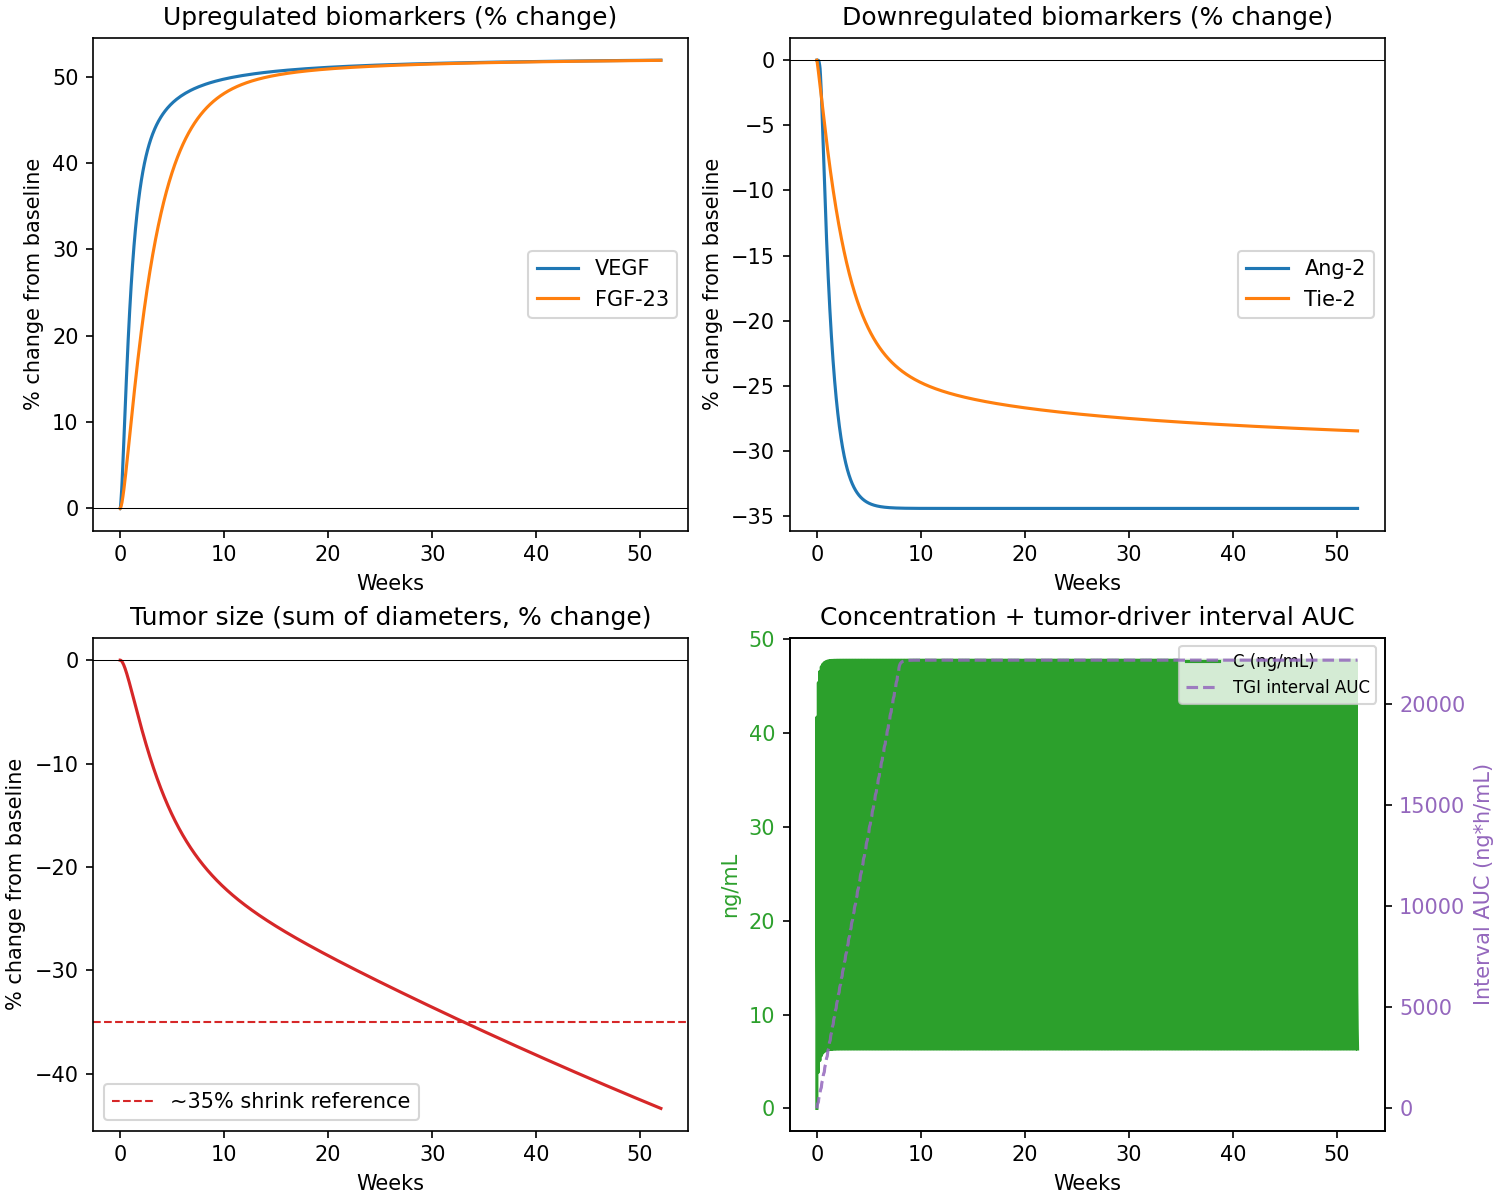
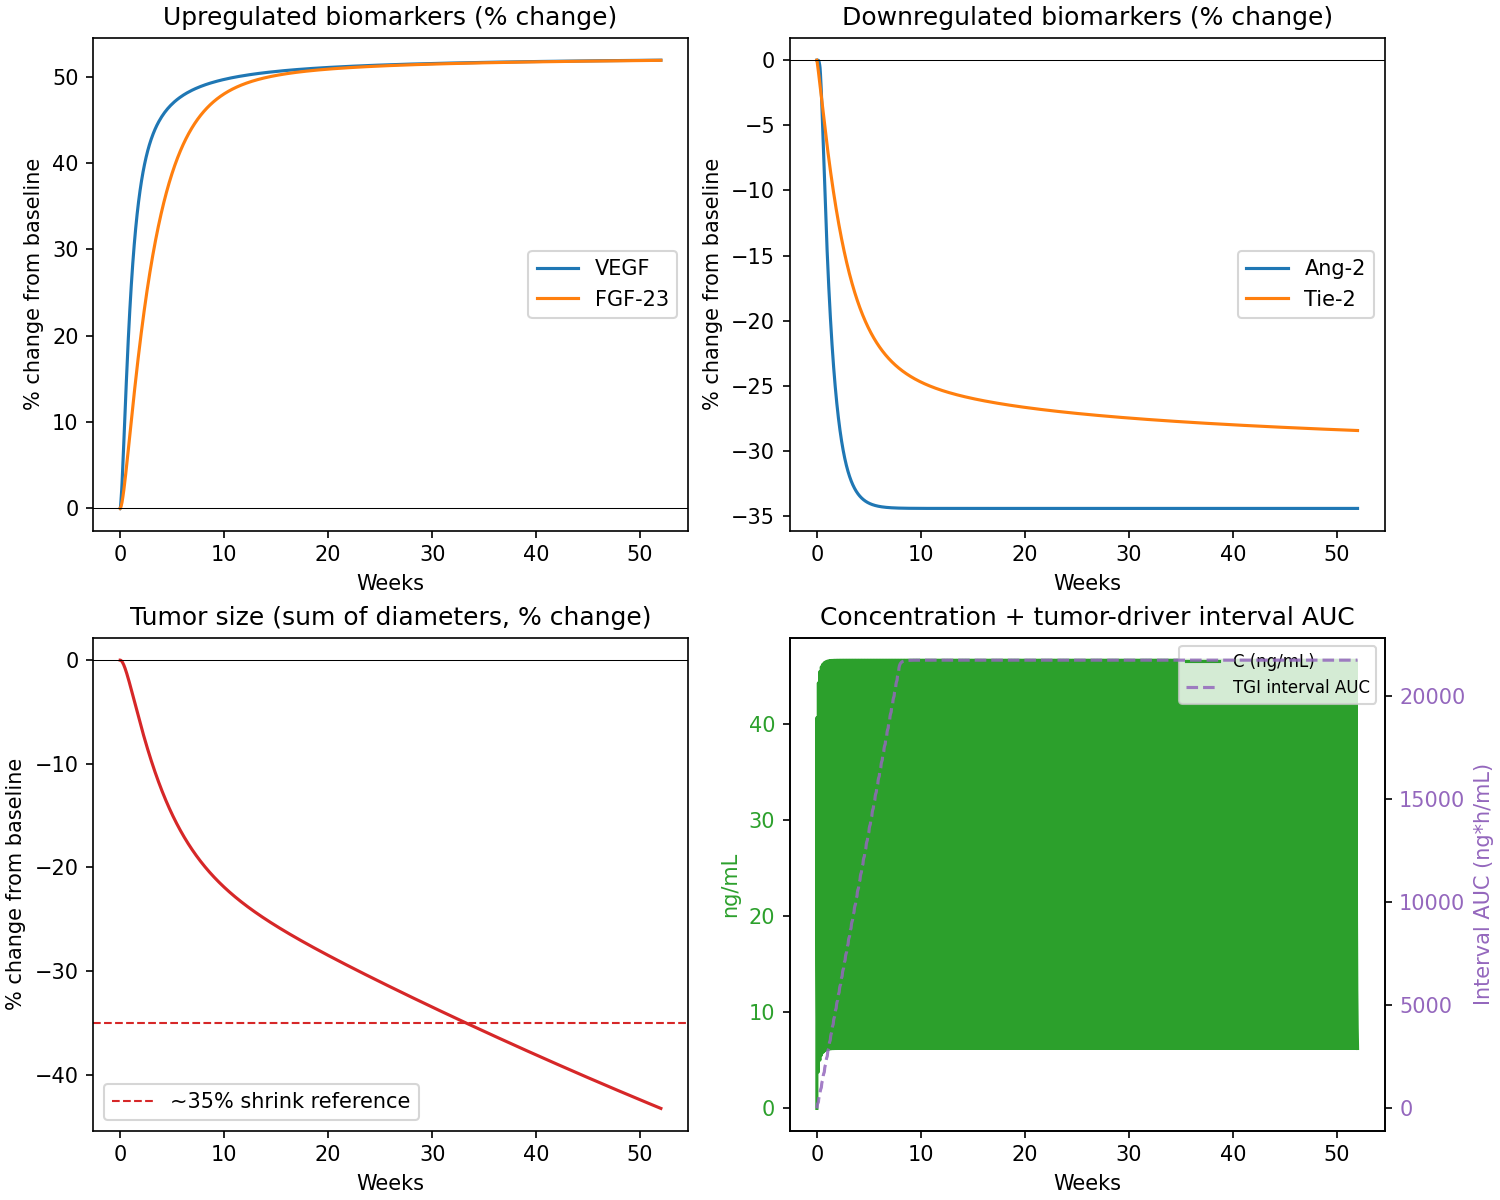
Lenvatinib Majid2024: default primary patient 75.1 kg / 59.5 mm (Figure 4); drop redundant Section B

diff --git a/test_cases/RCC/lenvatinib/Majid2024/lenvatinib_rcc_pkpd.py b/test_cases/RCC/lenvatinib/Majid2024/lenvatinib_rcc_pkpd.py
@@ -499,7 +499,12 @@ def main() -> None:
     p = argparse.ArgumentParser(description="Lenvatinib RCC PK/PD/TGI (Majid et al. 2024)")
     p.add_argument("--weeks", type=float, default=52.0)
     p.add_argument("--dose-mg", type=float, default=24.0)
-    p.add_argument("--bw-kg", type=float, default=73.2)
+    p.add_argument(
+        "--bw-kg",
+        type=float,
+        default=75.1,
+        help="Body weight (kg); default 75.1 = Figure 4 simulation patient (Majid et al.)",
+    )
     p.add_argument("--no-rcc-cl", action="store_true")
     p.add_argument(
         "--dt-h",
@@ -507,7 +512,12 @@ def main() -> None:
         default=0.1,
         help="Euler step (h); 0.1 recommended (Majid-style stiff biomarker γ); 0.5 often <0.5%% drift",
     )
-    p.add_argument("--y0-tumor-mm", type=float, default=70.2, help="Baseline SLD (mm); 70.2 for >35%% shrink caption")
+    p.add_argument(
+        "--y0-tumor-mm",
+        type=float,
+        default=59.5,
+        help="Baseline SLD (mm); default 59.5 = Figure 4 simulation patient (studies 303+211 median)",
+    )
     p.add_argument(
         "--tumor-auc-window-weeks",
         type=float,
@@ -551,31 +561,22 @@ def main() -> None:
     fig_path = results / "figures" / "figure4_style_pk_pd_tgi.png"
     plot_figure4_style(df, fig_path)
 
-    # Fig. 4 biomarker timing: medians from studies 303+211 (Majid et al. caption)
-    df_fig4 = run_scenario(bw_kg=75.1, y0_tumor_mm=59.5, **common_kw)
-    fig4 = paper_figure4_timing_metrics(df_fig4)
-
     summ = validation_summary(df)
+    fig4 = paper_figure4_timing_metrics(df)
     lines = [
         "Majid et al. 2024 CPT PSP 2024;13(6):954-969 — validation vs Figure 4 narrative",
         "",
-        "A) Primary exported run (CLI: BW, baseline tumor, interval window)",
-        f"    BW={args.bw_kg} kg, baseline tumor={args.y0_tumor_mm} mm, TGI AUC window={args.tumor_auc_window_weeks} wk",
+        "A) Primary exported run (Figure 4 reference patient: default BW 75.1 kg, baseline tumor 59.5 mm)",
+        f"    CLI: BW={args.bw_kg} kg, baseline tumor={args.y0_tumor_mm} mm, TGI AUC window={args.tumor_auc_window_weeks} wk",
         f"    VEGF % change @ 2 wk: {summ['vegf_pct_change_2w']:.2f}%",
         f"    FGF-23 % change @ 8 wk: {summ['fgf23_pct_change_8w']:.2f}%",
         f"    Ang-2 % change @ 4 wk: {summ['ang2_pct_change_4w']:.2f}%",
         f"    Tie-2 % change @ 8 wk: {summ['tie2_pct_change_8w']:.2f}%",
         f"    Tumor % change @ 52 wk: {summ['tumor_pct_change_52w']:.2f}%",
-        "",
-        "B) Figure 4 biomarker profile (BW=75.1 kg, baseline tumor=59.5 mm; same dose/window/dt)",
-        f"    VEGF % @ 2 wk: {fig4['vegf_pct_2w']:.2f}% (paper near-peak ~2 wk)",
-        f"    FGF-23 % @ 8 wk: {fig4['fgf23_pct_8w']:.2f}% (paper near-peak ~8 wk)",
-        f"    Ang-2 % @ 4 wk: {fig4['ang2_pct_4w']:.2f}% (paper near-nadir ~4 wk)",
-        f"    Tie-2 % @ 8 wk: {fig4['tie2_pct_8w']:.2f}% (paper near-nadir ~8 wk)",
-        f"    VEGF week of >=95% of wk-6 response: {fig4['vegf_plateau95_week']:.2f} wk (proxy ~2 wk)",
-        f"    FGF-23 week of >=95% of wk-12 response: {fig4['fgf23_plateau95_week']:.2f} wk (proxy ~8 wk)",
-        f"    Ang-2 week of <=95% depth vs wk-10 nadir: {fig4['ang2_nadir95_week']:.2f} wk (proxy ~4 wk)",
-        f"    Tie-2 week of <=95% depth vs wk-12 nadir: {fig4['tie2_nadir95_week']:.2f} wk (proxy ~8 wk)",
+        f"    VEGF week >=95% of wk-6 response: {fig4['vegf_plateau95_week']:.2f} wk (proxy ~2 wk)",
+        f"    FGF-23 week >=95% of wk-12 response: {fig4['fgf23_plateau95_week']:.2f} wk (proxy ~8 wk)",
+        f"    Ang-2 week <=95% depth vs wk-10 nadir: {fig4['ang2_nadir95_week']:.2f} wk (proxy ~4 wk)",
+        f"    Tie-2 week <=95% depth vs wk-12 nadir: {fig4['tie2_nadir95_week']:.2f} wk (proxy ~8 wk)",
         "",
         "C) >35% shrink caption (73.2 kg, 70.2 mm baseline, 24 mg QD) — dedicated check",
     ]
@@ -596,23 +597,16 @@ def main() -> None:
     lines.extend(
         [
             "",
-            "Pass/fail (informational; primary run):",
+            "Pass/fail (informational; primary = Figure 4 reference patient unless CLI overrides):",
             f"  VEGF @ 2 wk in band: {35.0 <= summ['vegf_pct_change_2w'] <= 58.0}",
             f"  FGF-23 @ 8 wk in band: {45.0 <= summ['fgf23_pct_change_8w'] <= 56.0}",
             f"  Ang-2 @ 4 wk in band: {-36.0 <= summ['ang2_pct_change_4w'] <= -30.0}",
             f"  Tie-2 drop by 8 wk: {summ['tie2_pct_change_8w'] <= -22.0}",
-            f"  Tumor shrink >= 35% (primary run): {summ['tumor_pct_change_52w'] <= -35.0}",
-            "",
-            "Figure 4 timing / magnitude (BW 75.1 kg, 59.5 mm; informational):",
-            f"  VEGF % @ 2 wk: {35.0 <= fig4['vegf_pct_2w'] <= 58.0}",
-            f"  FGF-23 % @ 8 wk: {45.0 <= fig4['fgf23_pct_8w'] <= 56.0}",
-            f"  Ang-2 % @ 4 wk: {-36.0 <= fig4['ang2_pct_4w'] <= -30.0}",
-            f"  Tie-2 % @ 8 wk: {fig4['tie2_pct_8w'] <= -22.0}",
             f"  VEGF plateau95 week ~2 wk: {1.0 <= fig4['vegf_plateau95_week'] <= 4.5}",
             f"  FGF-23 plateau95 week ~8 wk: {6.0 <= fig4['fgf23_plateau95_week'] <= 11.0}",
             f"  Ang-2 nadir95 week ~4 wk: {2.5 <= fig4['ang2_nadir95_week'] <= 6.5}",
             f"  Tie-2 nadir95 week ~8 wk: {6.0 <= fig4['tie2_nadir95_week'] <= 11.0}",
-            f"  Shrink caption (73.2 kg, 70.2 mm): {shrink_pct <= -35.0}",
+            f"  Shrink caption Section C (73.2 kg, 70.2 mm): {shrink_pct <= -35.0}",
         ]
     )
     chk = results / "validation_checks.txt"

diff --git a/test_cases/RCC/lenvatinib/Majid2024/README.md b/test_cases/RCC/lenvatinib/Majid2024/README.md
@@ -22,7 +22,7 @@ python lenvatinib_rcc_pkpd.py
 |------|---------|
 | `results/lenvatinib_rcc_timeseries.csv` | `C_ng_mL`, **`AUC_cum_biomarker_ng_h_mL`**, **`AUC_interval_tumor_ng_h_mL`**, tumor mm, % change biomarkers/tumor |
 | `results/figures/figure4_style_pk_pd_tgi.png` | Biomarkers, tumor % change, concentration + interval AUC |
-| `results/validation_checks.txt` | Figure 4–style checks (dual patient definitions per caption) |
+| `results/validation_checks.txt` | Figure 4–style checks on the **primary** patient; Section **C** only: >35% shrink (73.2 kg, 70.2 mm) |
 | `results/assumptions_block.txt` | Assumptions A1–A7 |
 
 ## Key CLI flags
@@ -31,7 +31,8 @@ python lenvatinib_rcc_pkpd.py
 |------|------|
 | `--tumor-auc-window-weeks` | Trailing **interval AUC** window for TGI Hill (default **8** wk, RECIST tumor assessments every 8 wk in randomization phase). |
 | `--dt-h` | Euler step (h); default **0.1** (stiff Ang-2 Hill γ). |
-| `--y0-tumor-mm` | Baseline sum of longest diameters (mm); default **70.2** (caption for >35% shrink). |
+| `--bw-kg` | Default **75.1** (Figure 4 simulation patient). |
+| `--y0-tumor-mm` | Default **59.5** mm SLD (Figure 4 median from studies 303+211). Shrinkage **>35%** caption uses **73.2 kg / 70.2 mm** in `validation_checks.txt` Section C only. |
 | `--biomarker-dpslope` | Optional Table 2 DPslope (1/h); default **0** for long treated-only runs. |
 | `--pk-legacy-split` + `--f-zero-order` | Legacy fraction-split ZO/FO; default is single-depot Majid-style PK. |
 